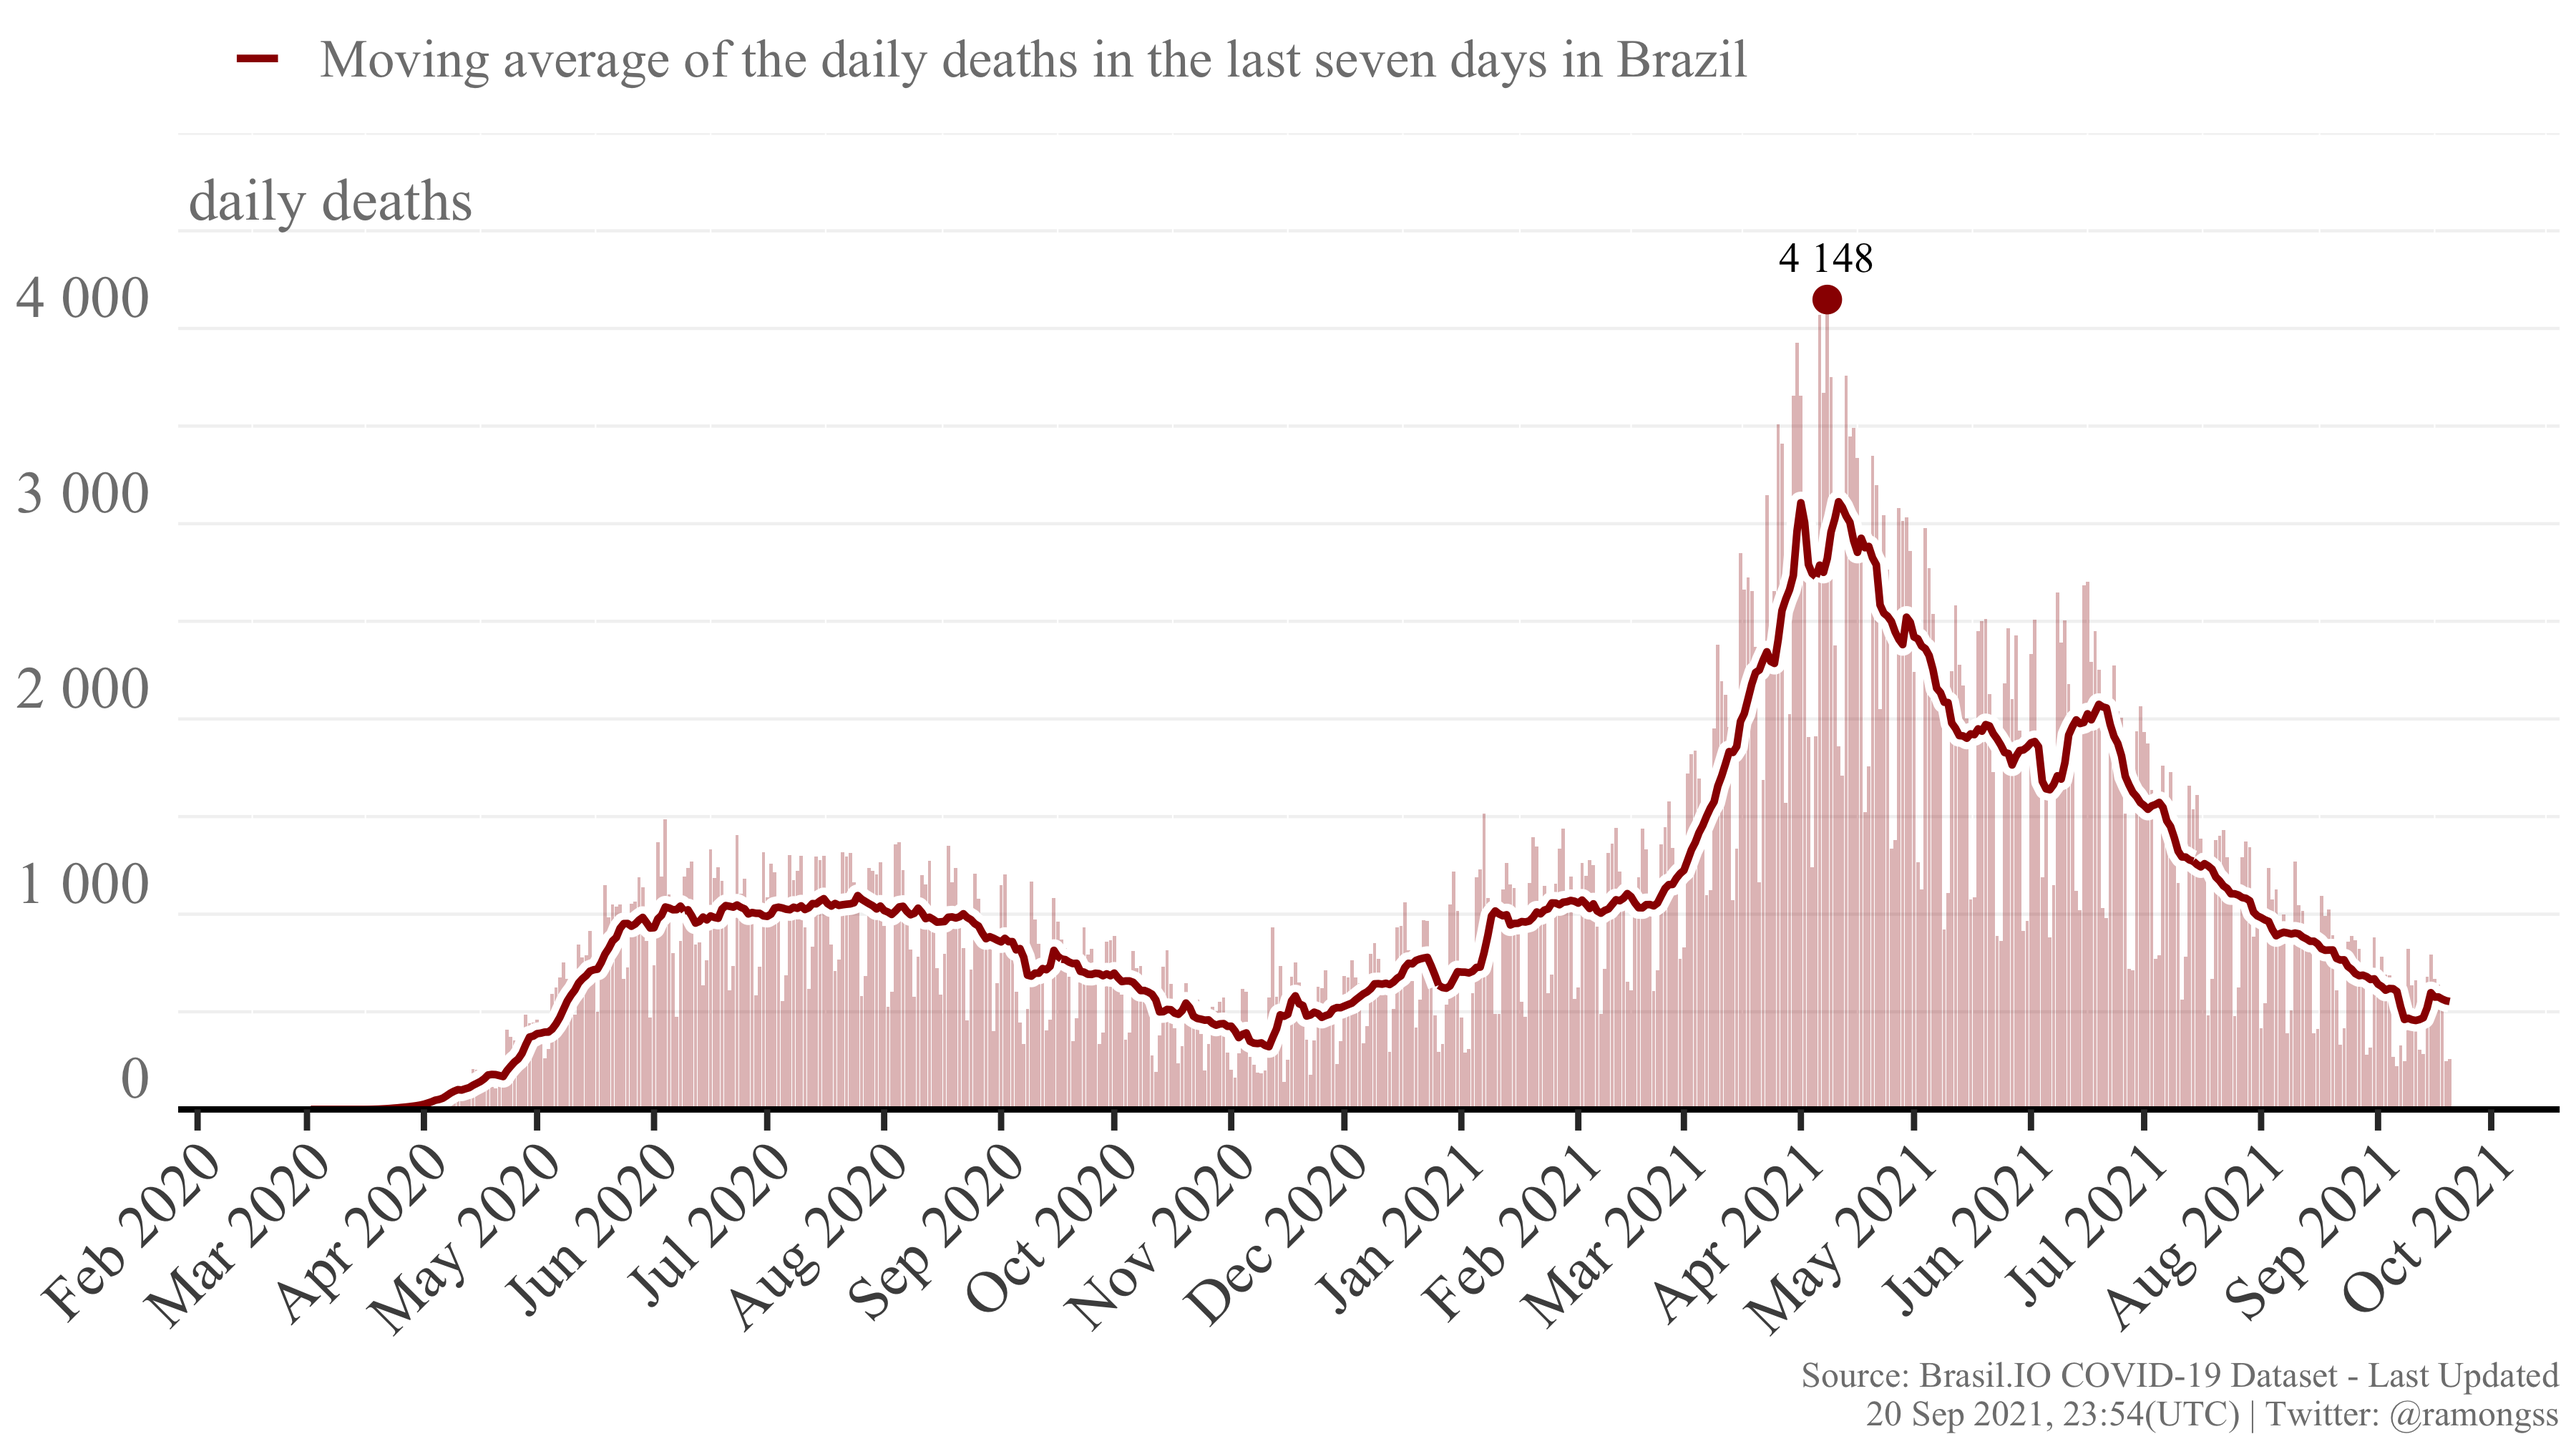
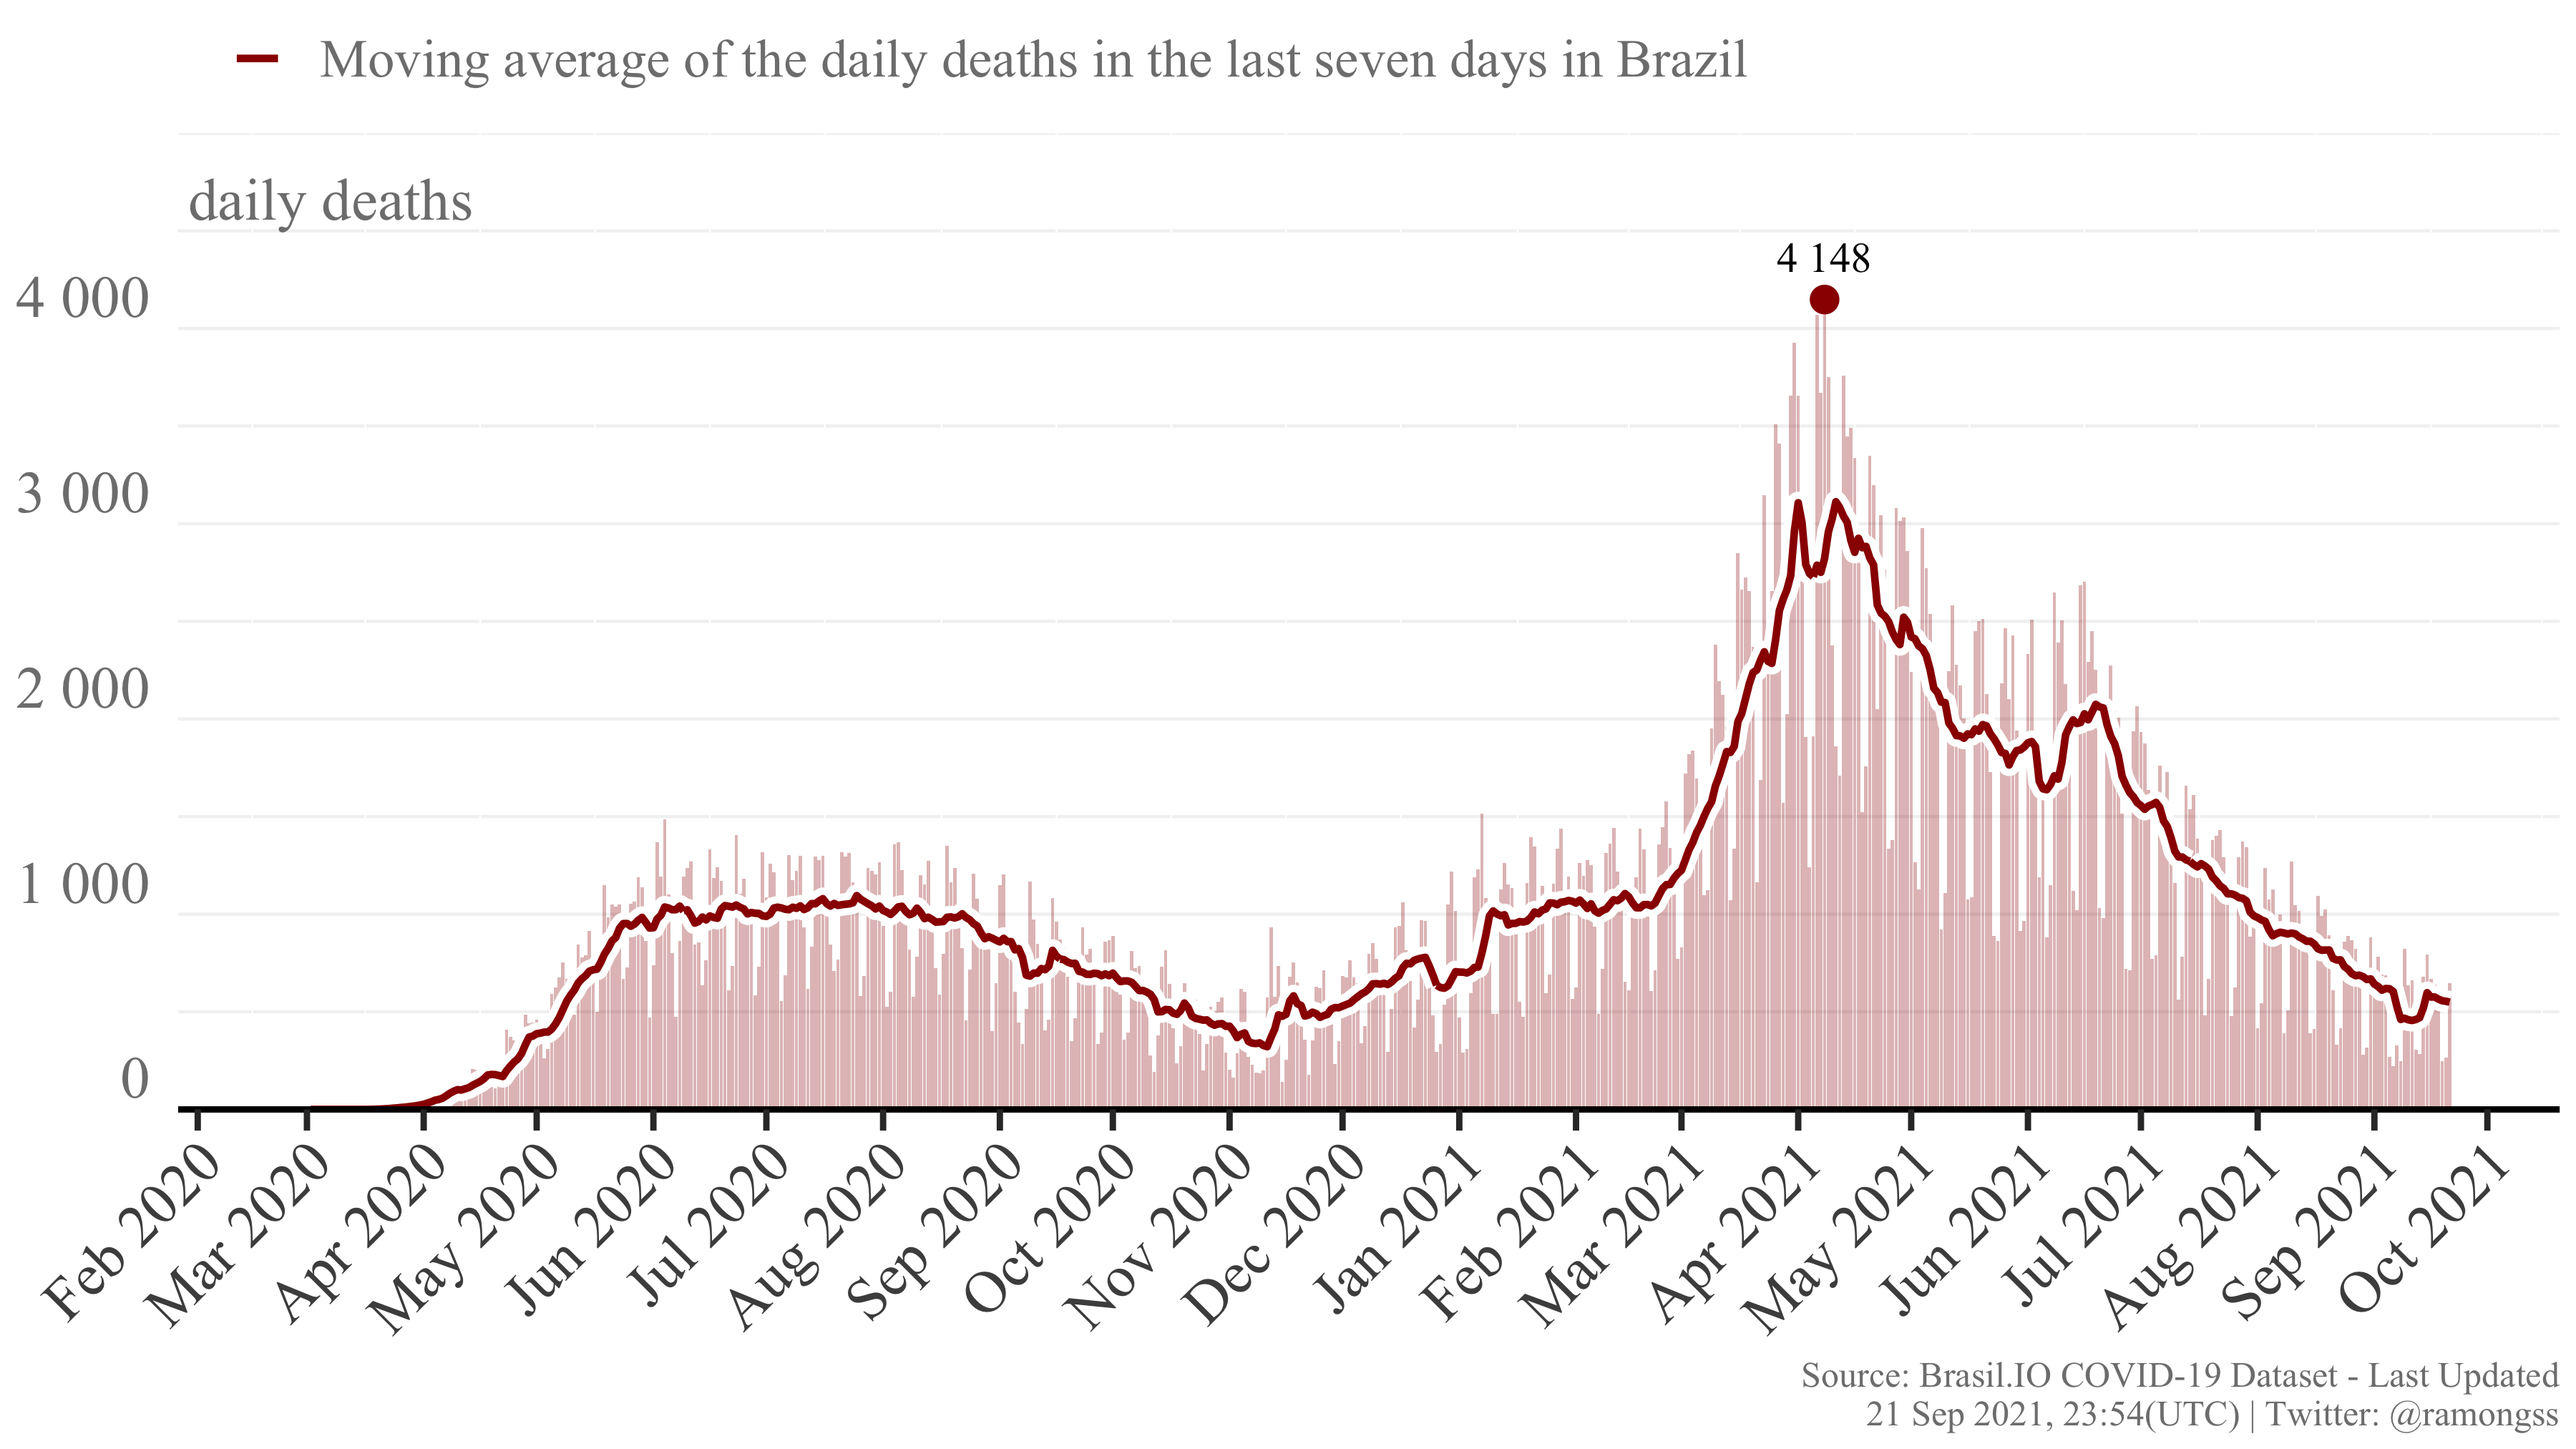
Re-build README.Rmd

diff --git a/README.md b/README.md
@@ -27,8 +27,8 @@ download_brasilio_table <- function(dataset = "covid19", table_name){
 
 ## COVID-19 Confirmed cases
 
-Currently, Brazil has a total of **21,240,753** confirmed cases at **20
-Sep, 2021**, with **-2,993** new confirmed cases. The daily maximum
+Currently, Brazil has a total of **21,256,205** confirmed cases at **21
+Sep, 2021**, with **15,200** new confirmed cases. The daily maximum
 incidence was **124,878** confirmed cases at **18 Sep, 2021**. Here
 follows the Figure showing the confirmed case incidence as the bars, and
 the line as the moving average of the last 7 days.
@@ -37,8 +37,8 @@ the line as the moving average of the last 7 days.
 
 ## COVID-19 Deaths
 
-Currently, Brazil has a total of **591,271** deaths at **20 Sep, 2021**,
-with **257** new deaths. The daily maximum deaths incidence was
+Currently, Brazil has a total of **591,925** deaths at **21 Sep, 2021**,
+with **647** new deaths. The daily maximum deaths incidence was
 **4,148** deaths at **08 Apr, 2021**. Here follows the Figure showing
 the deaths incidence as the bars, and the line as the moving average of
 the last 7 days.
@@ -49,4 +49,4 @@ the last 7 days.
 
 This page is daily updated automatically using Github Actions.
 
-*Last update: 20 Sep 2021, 23:54 (UTC).*
+*Last update: 21 Sep 2021, 23:54 (UTC).*
